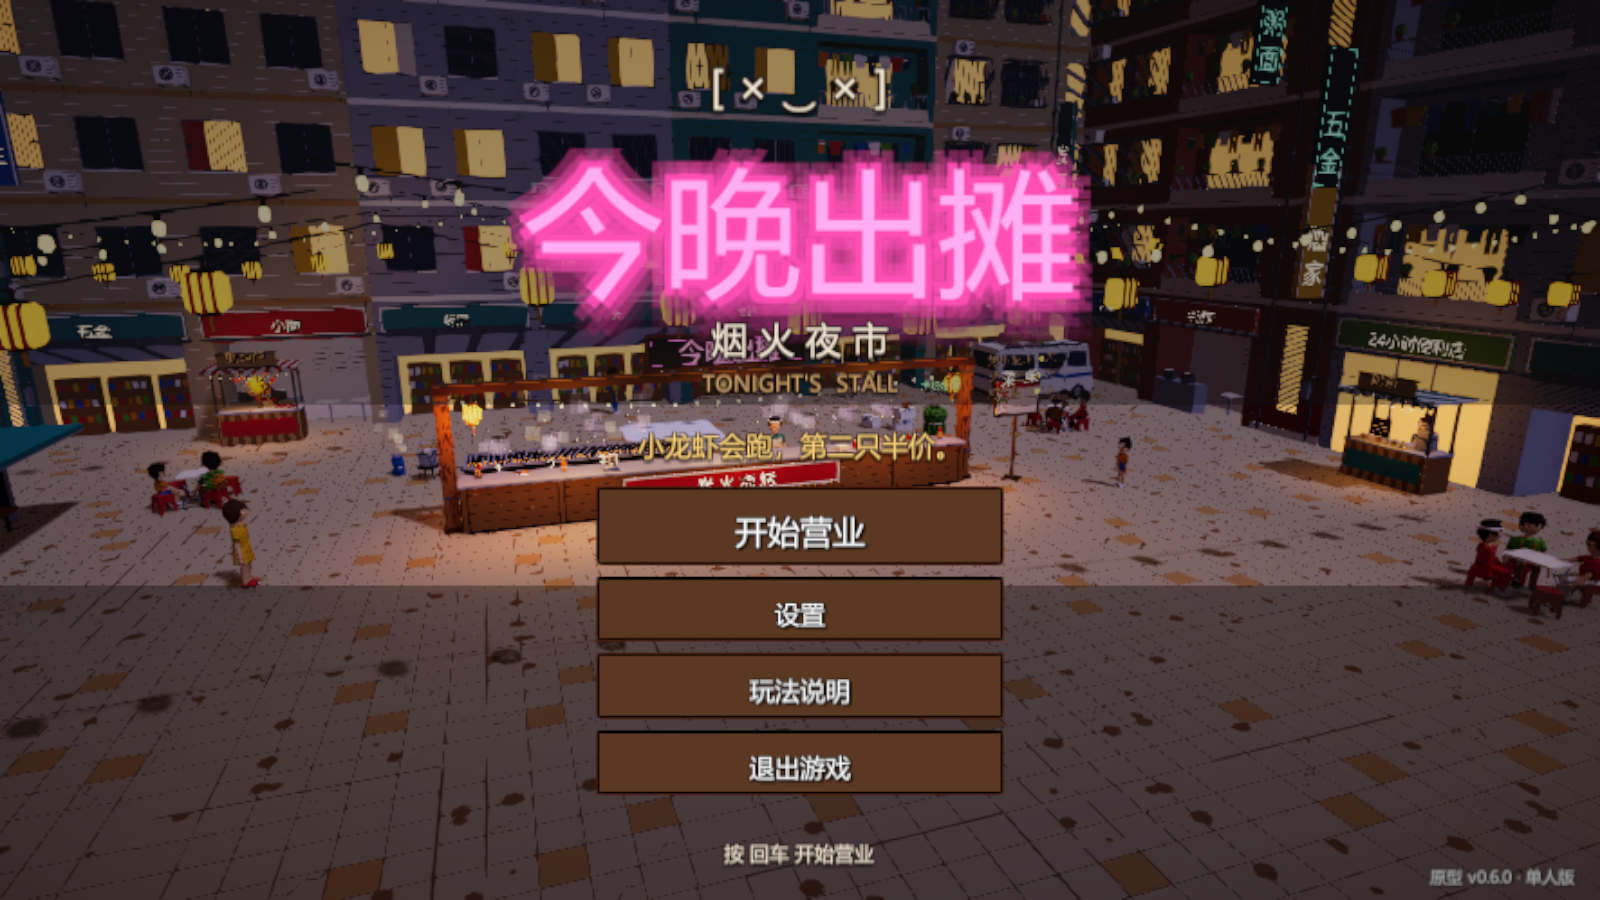
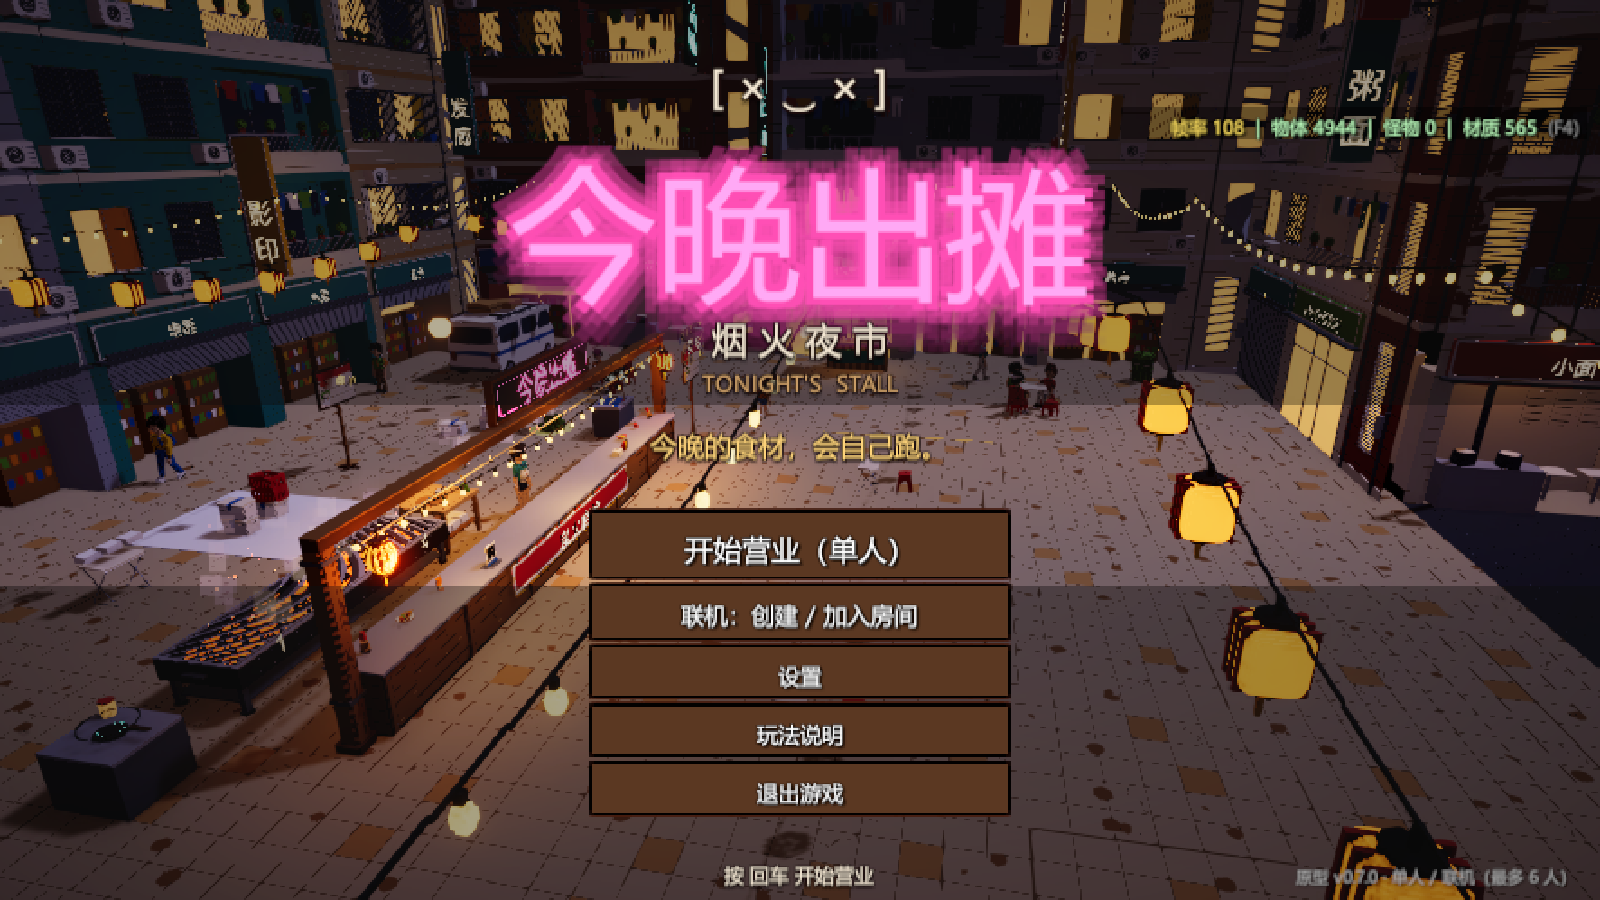
Add files via upload

diff --git a/README.md b/README.md
@@ -2,28 +2,42 @@
 
 > 末日夜市里，今晚的食材会自己跑。
 
-一个搞笑荒诞的霓虹末日夜市小游戏（单人原型，体素画风）。你是夜市摊主：白天去牧场打"食材怪"进货，天黑后推着三轮车穿过街道赶回夜市，烤串、卖货、躲城管，撑过 3 个晚上的摊位费。
+一个搞笑荒诞的霓虹末日夜市小游戏（体素画风，单人或最多 6 人联机）。你是夜市摊主：傍晚走进超市备货，白天去牧场打"食材怪"、种菜养虾，天黑后回到摊位备菜、点单、烤串炒菜、躲城管，每晚交上摊位费。走完社区夜市 → 散场夜市 → 河边夜市的"夜市巡回"就通关。
 
-**这是早期原型**：美术、数值都还在调整。我们最想知道的是「进货 → 推车 → 出摊 → 结算」这个循环好不好玩。这一版特意调低了难度，希望你能完整玩完 3 晚再给反馈。
+**这是早期原型**：美术、数值都还在调整。v0.7.0 是一次大改（联机、超市、种养、新菜、堂食外带、三张街区地图、委托），新机制的数值还没调好，我们最想知道新的一晚流程好不好玩、乱不乱。
 
 ![开始界面](images/1_title.png)
+![走进超市备货](images/4_supermarket.png)
 ![白天在牧场进货](images/2_hunt.png)
 ![夜里出摊](images/3_stall.png)
+![河边夜市](images/5_riverside.png)
 
 ## 下载
 
-👉 到右侧（手机上在页面下方）的 **Releases**，下载最新版本里的 **`今晚出摊_原型v0.6.0_Windows.zip`**。
+👉 到右侧（手机上在页面下方）的 **Releases**，下载最新版本里的 **`今晚出摊_原型v0.7.0_Windows.zip`**。
 
 - 系统：Windows 10 / 11，64 位
-- 大小：约 88 MB（解压后约 172 MB）
+- 大小：约 90 MB（解压后约 177 MB）
 - 只支持键盘 + 鼠标，界面只有中文
+- 联机需要联网
 
 ## 怎么开始
 
 1. 把压缩包**整个解压**到任意文件夹（不要直接在压缩包里双击运行）。
 2. 双击 `NightMarket.exe`。
 3. 如果 Windows 弹出蓝色的「Windows 已保护你的电脑」：点「更多信息」→「仍要运行」。这是因为试玩版没有数字签名，不是病毒。
-4. 压缩包里的 **`试玩说明（先看我）.txt`** 有完整的玩法、操作和反馈问题。
+4. 单人点「开始营业（单人）」；联机点「联机：创建 / 加入房间」，房主把邀请码发给朋友。
+5. 压缩包里的 **`试玩说明（先看我）.txt`** 有完整的玩法、操作和反馈问题。
+
+## 一晚的流程
+
+| 阶段 | 做什么 |
+|---|---|
+| 备货 | 走进超市，货架拿东西、收银台结账；菜单板选今晚的菜；夜市地图选街区、接委托 |
+| 进货 | 白天的牧场：打食材怪、装车，砍竹子削签，种植区 / 池塘区 / 养殖区照料和收成 |
+| 备菜 | 摊位后厨：洗、切、穿串、分装，还没有客人 |
+| 出摊 | 堂食 / 外带客人，先点单再做菜上菜；城管来了按 F 盖布；小心突发事件 |
+| 结算 | 交摊位费；完成街区目标解锁下一站，委托领奖励；升级商店买设备 |
 
 ## 操作速查
 
@@ -31,25 +45,26 @@
 |---|---|
 | WASD / 鼠标 / 左键 | 移动 / 瞄准 / 开火 |
 | Shift / 空格 | 跑（消耗体力）/ 跳 |
-| E | 互动：捡食材、装车、推车、放烤架、取下、卖货、扔垃圾 |
+| E | 互动：按一下捡、装车、放烤架、取下、上菜；按住洗、切、穿串、点单、种地 |
 | G | 扔面粉袋（烟雾挡视线；别扔到自己摊位上！） |
 | F | 出摊时盖布躲城管 |
+| 回车 | 就绪（备货、备菜时提前进入下一步） |
 | R / 1 2 3 | 换弹 / 切换武器 |
 | Esc | 暂停菜单 |
 | F4 | 右上角性能信息（帧率等） |
 
-游戏里的钱都是金币：**公账**（钱箱图标）用来交摊位费，**私房钱**（一沓现金图标）用来买东西，也是最终得分。
+游戏里的钱都是金币：**公账**全队共用，交摊位费、买调料种苗和设备；**私房钱**每人一个，小费归端菜的人，买武器道具，也是最终得分。
 
-音量、亮度、灵敏度、视野、全屏 / 窗口、帧率、画质等都在开始界面或暂停菜单的 **「设置」** 里。电脑卡的话：设置 → 画质，把阴影调低、关掉湿地面反射。
+音量、亮度、灵敏度、视野、全屏 / 窗口、帧率、画质等都在开始界面或暂停菜单的 **「设置」** 里。电脑卡的话：设置 → 画质，把阴影调低。
 
 ## 反馈
 
-玩完一局（或者玩到不想玩了）之后，请到本页上方的 **Issues** 新建一条，随便写几句就好：
+玩完（或者玩到不想玩了）之后，请到本页上方的 **Issues** 新建一条，随便写几句就好：
 
-1. 玩了多久？撑到第几晚？通关 / 失败的原因？
-2. 最好玩和最无聊的分别是哪一段？
-3. 难度怎么样？有没有看不懂、不知道该干什么的地方？屏幕上的图标能一眼看懂吗？
-4. 操作手感、画面（人物、动物、武器的样子）有没有别扭或看不清的地方？
+1. 玩了多久？撑到第几晚、到了哪个街区？单人还是联机（几个人）？
+2. 最好玩和最无聊的分别是哪一段？一晚的流程会不会太长、太碎？
+3. 难度怎么样？有没有看不懂、不知道该干什么的地方（比如菜怎么做、委托怎么接、新菜怎么解锁）？
+4. 联机的话：分工顺不顺？有没有卡顿、不同步、掉线？
 5. 遇到的 bug，以及当时在做什么。
 6. 如果只能改一件事，你最想改什么？
 
@@ -57,8 +72,8 @@
 
 ## 已知问题
 
-- 试玩版特意调低了难度，数值还在调整。
-- 没有存档，一局大约 15～20 分钟。
+- 新机制的数值都还没调，可能偏难或偏简单。
+- 联机第一次创建 / 加入房间要等几秒；联机时存档在房主电脑上。
 - 只在少数电脑上测过，如果卡顿或风扇很响，请按 F4 看一下右上角的帧率并告诉我们。
 
 ## 素材来源
